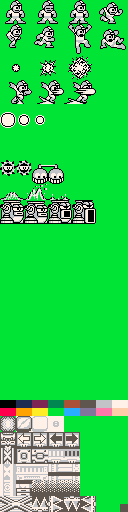
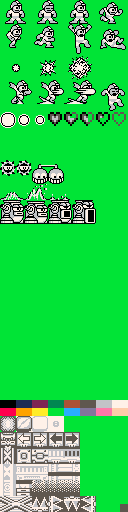
Health and Invulnerability

Changed region(s): [[0.375, 0.1562, 1.0, 0.25]]

diff --git a/mbh-platformer/mbh-platformer/Game1.cs b/mbh-platformer/mbh-platformer/Game1.cs
@@ -148,6 +148,13 @@ namespace mbh_platformer
 
             public flying_def flying = null;
 
+            public float hp_max = 1;
+            public float hp = 1;
+            public float attack_power = 1;
+
+            protected int invul_time = 0;
+            protected int invul_time_on_hit = 120;
+
             public struct anim
             {
                 public int ticks;
@@ -239,6 +246,7 @@ namespace mbh_platformer
 
             public override void _update60()
             {
+                invul_time = (int)max(0, invul_time - 1);
                 base._update60();
 
                 tick_anim();
@@ -262,6 +270,7 @@ namespace mbh_platformer
 
                 // Mono8 Port: Starting with table only style.
                 //if type(frame) == "table" then
+                if (invul_time == 0 || invul_time % 2 == 0)
                 {
                     var final_w = a.w ?? w;
                     var final_h = a.h ?? h;
@@ -740,13 +749,9 @@ namespace mbh_platformer
 
             protected virtual void on_bounce(sprite attacker, bool ignore_dead_time = false)
             {
-                // TODO: UNTESTED
+                hp -= 1;
 
-
-                // TODO
-                //hp -= 1
-
-                if (dead_time == -1 || ignore_dead_time) // TODO: && hp == 0 then
+                if ((dead_time == -1 || ignore_dead_time) && hp == 0)
                 {
                     dead_time = 240;
 
@@ -1325,6 +1330,18 @@ namespace mbh_platformer
                             frames= new int[][] { create_anim_frame(60-16, 4, 5, 1), },
                         }
                     },
+                    {
+                        "taking_hit",
+                        new anim()
+                        {
+                            h = 32,
+                            ticks=1,//how long is each frame shown.
+                            frames= new int[][]
+                            {
+                                create_anim_frame(172, 4, 4),
+                            },//what frames are shown.
+                        }
+                    },
                 };
 
                 x = 159;
@@ -1338,6 +1355,9 @@ namespace mbh_platformer
                 ch = 24;
                 //cx_offset = 8;
                 //cy_offset = 6;
+
+                hp_max = 3;
+                hp = 3;
             }
 
             public void start_dash_bounce(ref Vector2 hit_point)
@@ -1382,6 +1402,13 @@ namespace mbh_platformer
 
                 string next_anim = curanim;
 
+                if (invul_time > (invul_time_on_hit * 0.6f))
+                {
+                    x += dx;
+                    set_anim("taking_hit");
+                    base._update60();
+                    return;
+                }
 
                 //if( inst.collide_floor(self))
                 //{
@@ -1673,11 +1700,22 @@ namespace mbh_platformer
 
             public void on_take_hit(sprite attacker)
             {
-                inst.set_game_state(game_state.gameplay_dead);
-                inst.hit_pause.start_pause(hit_pause_manager.pause_reason.death);
-
-                Tuple<float, float>[] death_dirs = new Tuple<float, float>[]
+                if (invul_time > 0)
                 {
+                    return;
+                }
+
+                hp -= attacker.attack_power;
+                invul_time = 120;
+                dx = Math.Sign(cx - attacker.cx) * 0.25f;
+
+                if (hp <= 0)
+                {
+                    inst.set_game_state(game_state.gameplay_dead);
+                    inst.hit_pause.start_pause(hit_pause_manager.pause_reason.death);
+
+                    Tuple<float, float>[] death_dirs = new Tuple<float, float>[]
+                    {
                         new Tuple<float, float>(-1.0f, 0.0f),
                         new Tuple<float, float>( 1.0f, 0.0f),
                         new Tuple<float, float>( 0.0f, 1.0f),
@@ -1686,16 +1724,17 @@ namespace mbh_platformer
                         new Tuple<float, float>( 0.7f,-0.7f),
                         new Tuple<float, float>( 0.7f, 0.7f),
                         new Tuple<float, float>(-0.7f, 0.7f),
-                };
-
-                foreach (var dir in death_dirs)
-                {
-                    simple_fx_death_spark o = new simple_fx_death_spark(dir.Item1, dir.Item2)
-                    {
-                        x = x,
-                        y = y,
                     };
-                    inst.objs.Add(o);
+
+                    foreach (var dir in death_dirs)
+                    {
+                        simple_fx_death_spark o = new simple_fx_death_spark(dir.Item1, dir.Item2)
+                        {
+                            x = x,
+                            y = y,
+                        };
+                        inst.objs.Add(o);
+                    }
                 }
             }
 
@@ -2431,7 +2470,32 @@ namespace mbh_platformer
                 o._draw();
             }
 
+            // HUD
+
+            Action draw_health = () =>
+            {
+                if (p == null)
+                {
+                    return;
+                }
+
+                int y_pos = 1;
+
+                for (int i = 0; i < p.hp_max; i++)
+                {
+                    int id = 238;
+                    if (i < p.hp)
+                    {
+                        id = 230;
+                    }
+                    spr(id, 1, y_pos, 2, 2);
+                    y_pos += 16;
+                }
+            };
+
             camera(0, 0);
+
+            draw_health();
 
             switch (cur_game_state)
             {
